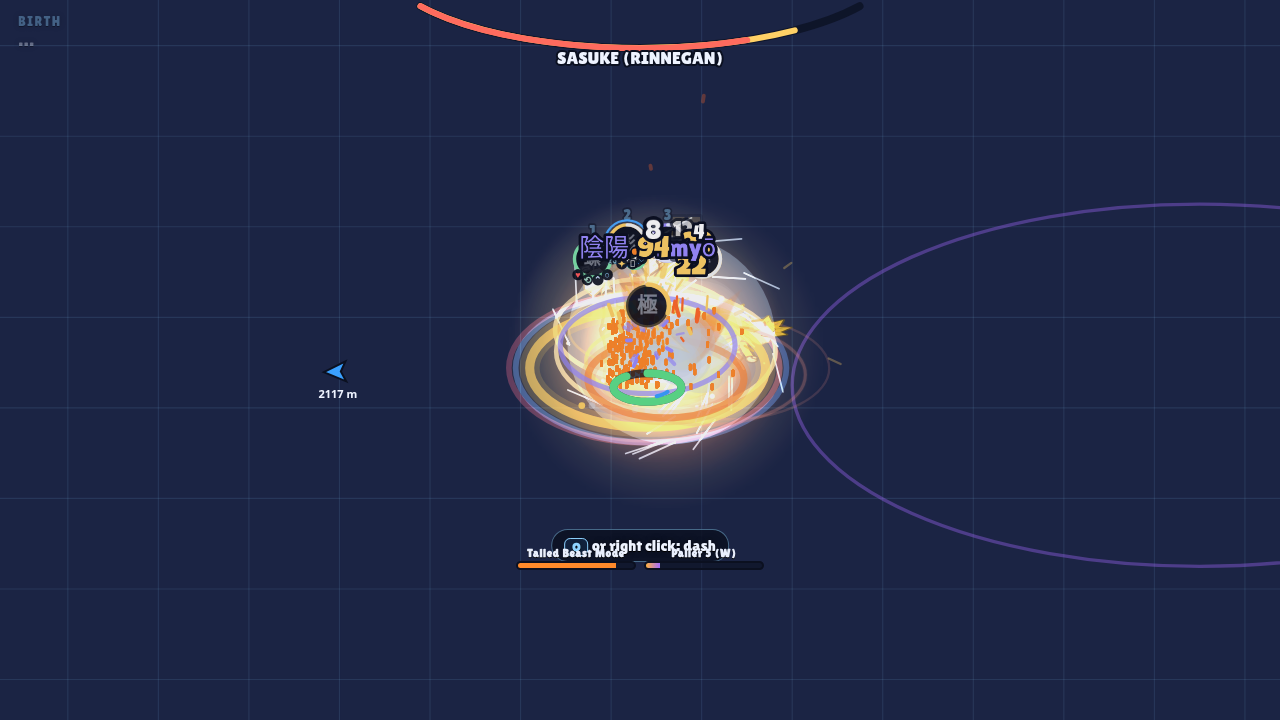
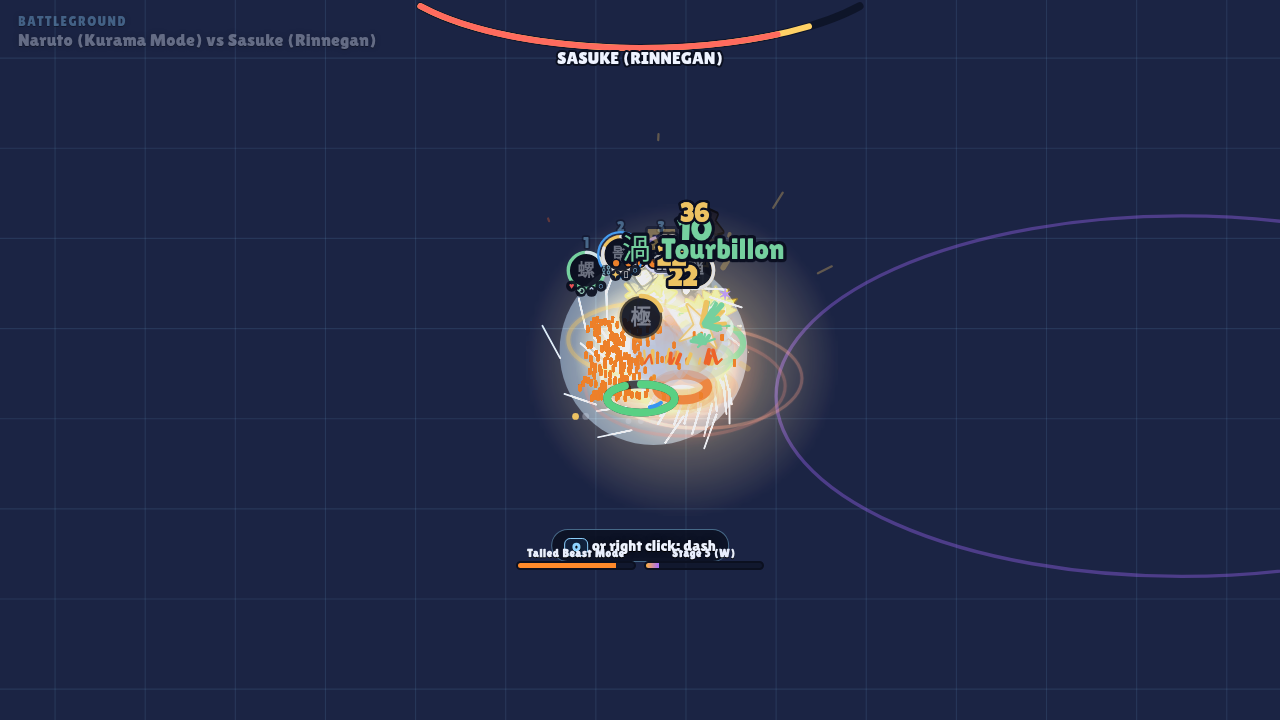
v0.10.36 Battleground: canon kits for Pain and Kawaki, red Susanoo for Itachi

diff --git a/index.html b/index.html
@@ -104,7 +104,7 @@ button.b.p{background:var(--gold);color:var(--ink)}button.b.p2{background:var(--
 <script>
 'use strict';
 /* ============ Noyau : réglages, sauvegarde, entrées, audio ============ */
-const VERSION = '0.10.35';
+const VERSION = '0.10.36';
 const K10 = Math.sqrt(10); // v0.9.7 : échelle des cartes extérieures (surface ×10)
 const $ = (s) => document.querySelector(s);
 const TAU = Math.PI * 2, clamp = (v, a, b) => (v < a ? a : v > b ? b : v), lerp = (a, b, t) => a + (b - a) * t;
@@ -5457,7 +5457,9 @@ let FT10 = null, FB10 = null;
 "Bansho Ten’in": "Banshō Ten'in",
 "Tiges en éventail": "Rod Fan",
 "Palier {} ({})": "Stage {} ({})",
-"Palier max": "Max stage"
+"Palier max": "Max stage",
+"Tiges de chakra": "Chakra Rods",
+"Bras-lame du Kāma": "Kāma Blade Arm"
 }
 };
   const L = window.LANG10 = { DATA, miss: new Set(), get lang() { return (Save.set && Save.set.lang) || 'en'; }, set lang(v) { Save.set.lang = v; try { Save.saveSet && Save.saveSet(); } catch (e) {} },
@@ -5483,21 +5485,34 @@ let FT10 = null, FB10 = null;
   // coups de l'adversaire (l'IA ne peut pas utiliser castSkill : il touche World.foes) — chaque coup canon est rejoué côté ennemi
   // t : proj | fan | beam | zone | dash ; d : dégâts ; cd : recharge
   const FIG = {
-    sasuke: { n: 'Sasuke (Rinnegan)', look: { hs: 'sasuke', hair: '#1a1a2a', top: '#3a3a4a', bot: '#2a2a36', cloak: '#3a3a4a', skin: '#f0d0b0', eye: '#7a4ad8' }, hp: 1, sk: ['chidori', 'amaterasu', 'm8_sharingan_2_0', 'm8_sharingan_6_0'], ult: 'm8u_sharingan_8', mode: ['sharingan', 7],
+    sasuke: { n: 'Sasuke (Rinnegan)', look: { hs: 'sasuke', hair: '#1a1a2a', top: '#3a3a4a', bot: '#2a2a36', cloak: '#3a3a4a', skin: '#f0d0b0', eye: '#7a4ad8' }, hp: 1, sk: ['chidori', 'amaterasu', 'm8_sharingan_2_0', 'm8_sharingan_6_0'], ult: 'm8u_sharingan_8', mode: ['sharingan', 7], sus: 'purple',
       ai: [['Chidori', '千', 'bolt', 'dash', 26, 4], ['Amaterasu', '天', 'fire', 'zone', 30, 7], ['Chidori Eisō', '槍', 'bolt', 'beam', 22, 5], ['Flèche de Susanoo', '矢', 'yin', 'proj', 28, 6]], aiU: ['Flèche de l’Indra', 'bolt', 70] },
-    itachi: { n: 'Itachi (Edo Tensei)', look: { hs: 'pony', hair: '#1a1a22', top: '#22222e', bot: '#22222e', cloak: '#1a1a26', org: 1, skin: '#d8ccc0', eye: '#d0283a', scar: 1 }, hp: 1, sk: ['gokakyu', 'm8_sharingan_3_1', 'amaterasu', 'm8_sharingan_6_1'], ult: 'm8u_sharingan_7', mode: ['sharingan', 7],
+    itachi: { n: 'Itachi (Edo Tensei)', look: { hs: 'pony', hair: '#1a1a22', top: '#22222e', bot: '#22222e', cloak: '#1a1a26', org: 1, skin: '#d8ccc0', eye: '#d0283a', scar: 1 }, hp: 1, sk: ['gokakyu', 'm8_sharingan_3_1', 'amaterasu', 'm8_sharingan_6_1'], ult: 'm8u_sharingan_7', mode: ['sharingan', 7], sus: 'red',
       ai: [['Katon : Gōkakyū', '火', 'fire', 'proj', 24, 4], ['Tsukuyomi', '月', 'yin', 'zone', 22, 8], ['Amaterasu', '天', 'fire', 'zone', 30, 7], ['Shuriken guidés', '手', 'yang', 'fan', 8, 3]], aiU: ['Épée de Totsuka', 'yin', 65] },
     naruto: { n: 'Naruto (Mode Kurama)', look: { hs: 'naruto', hair: '#ffd23a', top: '#ffb13d', bot: '#2a2a36', skin: '#f0c49c', marks: 1 }, hp: 1.1, sk: ['rasen', 'bunshin', 'm8_manteau_2_0', 'm8_manteau_1_0'], ult: 'set_rasenshuriken', mode: ['manteau', 4],
       ai: [['Rasengan', '螺', 'wind', 'dash', 26, 4], ['Mini Bijūdama', '玉', 'yin', 'proj', 30, 6], ['Kage Bunshin', '影', 'yang', 'fan', 9, 5], ['Bras de chakra', '腕', 'yang', 'beam', 20, 5]], aiU: ['Fūton : Rasenshuriken', 'wind', 70] },
-    naruto_s: { n: 'Naruto (Mode Ermite)', look: { hs: 'naruto', hair: '#ffd23a', top: '#ff8a2a', bot: '#2a2a36', cloak: '#c0402a', skin: '#f0c49c', marks: 1 }, hp: 0.95, sk: ['m8_ermite_0_1', 'm8_ermite_0_0', 'bunshin', 'm8_ermite_2_0'], ult: 'm8u_ermite_0', mode: ['ermite', 2],
+    naruto_s: { n: 'Naruto (Mode Ermite)', look: { hs: 'naruto', hair: '#ffd23a', top: '#ff8a2a', bot: '#2a2a36', cloak: '#c0402a', skin: '#f0c49c', marks: 1 }, hp: 0.8, sk: ['m8_ermite_0_1', 'm8_ermite_0_0', 'bunshin', 'm8_ermite_2_0'], ult: 'm8u_ermite_0', mode: ['ermite', 2],
       ai: [['Senpō : Rasengan', '螺', 'wind', 'dash', 22, 4.5], ['Kawazu Kumite', '蛙', 'yang', 'dash', 15, 3.5], ['Senpō : Rasenshuriken', '手', 'wind', 'proj', 26, 8], ['Kage Bunshin', '影', 'yang', 'fan', 7, 5]], aiU: ['Senpō : Chōōdama Rasengan', 'wind', 55] },
-    pain: { n: 'Pain (Tendō)', look: { hs: 'spiky', hair: '#e8752a', top: '#1a1a26', bot: '#1a1a26', cloak: '#1a1a26', org: 1, skin: '#f0d8c0', eye: '#b08ad8' }, hp: 0.9, sk: ['shinra', 'm8_karma_0_2', 'm8_karma_2_0', 'shuriken8'], ult: 'set_chibaku', mode: null, pw: 2.4, me: 1.45,
+    pain: { n: 'Pain (Tendō)', look: { hs: 'spiky', hair: '#e8752a', top: '#1a1a26', bot: '#1a1a26', cloak: '#1a1a26', org: 1, skin: '#f0d8c0', eye: '#b08ad8' }, hp: 0.9, sk: ['shinra', 'bansho10', 'rods10', 'shuriken8'], ult: 'set_chibaku', mode: null, me: 1.2,
       ai: [['Shinra Tensei', '神', 'yang', 'zone', 24, 6], ['Tige noire', '杭', 'yin', 'proj', 15, 3.5], ['Bansho Ten’in', '引', 'yang', 'dash', 16, 6], ['Tige noire', '杭', 'yin', 'fan', 10, 4]], aiU: ['Chibaku Tensei', 'earth', 70] },
-    boruto: { n: 'Boruto (Kāma)', look: { hs: 'boruto', hair: '#f0d060', top: '#2a2a3a', bot: '#2a2a3a', skin: '#f0c49c', karma: 1 }, hp: 0.95, sk: ['rasen', 'm8_jogan_0_1', 'm8_karma_0_0', 'bunshin'], ult: 'uzuhiko', mode: ['karma', 2],
+    boruto: { n: 'Boruto (Kāma)', look: { hs: 'boruto', hair: '#f0d060', top: '#2a2a3a', bot: '#2a2a3a', skin: '#f0c49c', karma: 1 }, hp: 0.8, sk: ['rasen', 'm8_jogan_0_1', 'm8_karma_0_0', 'bunshin'], ult: 'uzuhiko', mode: ['karma', 2],
       ai: [['Rasengan', '螺', 'wind', 'dash', 24, 4], ['Rasengan invisible', '螺', 'wind', 'proj', 26, 5], ['Kage Bunshin', '影', 'yang', 'fan', 9, 5], ['Coup de Kāma', '撃', 'yin', 'dash', 22, 4]], aiU: ['Rasengan Uzuhiko', 'wind', 65] },
-    kawaki: { n: 'Kawaki (Kāma)', look: { hs: 'kawaki', hair: '#1a1a22', top: '#3a3a44', bot: '#2a2a30', skin: '#e8c8a8', karma: 1 }, hp: 1.1, sk: ['m8_karma_0_2', 'm8_karma_1_1', 'm8_karma_0_1', 'm8_karma_0_0'], ult: 'm8u_karma_2', mode: ['karma', 3], pw: 1.9, me: 1.35,
+    kawaki: { n: 'Kawaki (Kāma)', look: { hs: 'kawaki', hair: '#1a1a22', top: '#3a3a44', bot: '#2a2a30', skin: '#e8c8a8', karma: 1 }, hp: 0.95, sk: ['kawarm10', 'm8_karma_1_1', 'rods10', 'm8_karma_0_0'], ult: 'm8u_karma_2', mode: ['karma', 3], me: 1.1,
       ai: [['Tige noire', '杭', 'yin', 'proj', 20, 3], ['Sukunahikona', '小', 'yin', 'beam', 24, 6], ['Coup de Kāma', '撃', 'yin', 'dash', 22, 4], ['Tiges en éventail', '杭', 'yin', 'fan', 10, 4]], aiU: ['Daikokuten', 'yin', 70] } };
   const MU = [['sasuke', 'itachi', 'Les frères Uchiha'], ['naruto', 'sasuke', 'Vallée de la Fin'], ['naruto_s', 'pain', 'Invasion de Pain'], ['boruto', 'kawaki', 'Réceptacles du Kāma']];
+  // techniques canon ajoutées pour les kits joueur : Banshō Ten'in (Pain), Tiges de chakra (Pain/Kawaki), Bras-lame du Kāma (Kawaki)
+  Object.assign(SK, { bansho10: { n: 'Bansho Ten’in', el: 'yang', k: '引', cd: 6, ch: 18, sign: 'tora' }, rods10: { n: 'Tiges de chakra', el: 'yin', k: '杭', cd: 3.5, ch: 14, sign: 'mi' }, kawarm10: { n: 'Bras-lame du Kāma', el: 'yin', k: '刃', cd: 2.5, ch: 16, sign: 'ne' } });
+  const CANON = { shinra: 3, bansho10: 1.5, rods10: 1.5, m8_karma_1_1: 2, kawarm10: 1.6 }; // Shinra Tensei rase Konoha ; Sukunahikona projette des objets agrandis
+  const fs0 = fireSkill; fireSkill = function (u, S, id) { const P = typeof pw === 'function' ? pw(u) : 1, a = u.aimA || 0;
+    if (id === 'bansho10') { const f = nearestFoe(u, 520); FX.glow(u.x + Math.cos(a) * 40, u.y - 40, '#e8e0ff', 70, 0.4); if (!f) return; const fx = f.x, fy = f.y; f.st = f.st || {}; f.st.stun = 0.7; FX.custom({ x: 0, y: 0, life: 0.25, draw: (g, p, q) => { g.save(); g.strokeStyle = 'rgba(220,210,255,.8)'; g.lineWidth = 3; g.beginPath(); g.moveTo(u.x, u.y - 40); g.lineTo(f.x, f.y - 34); g.stroke(); g.restore(); } });
+      const tx = u.x + Math.sign(f.x - u.x || 1) * 60; Game.later(0.05, () => { f.x = lerp(fx, tx, 0.85); f.y = lerp(fy, u.y, 0.85); hurt(f, 22 * P, u, { el: 'yang', k: 0.4 }); Cam.shake(0.12); }); return; }
+    if (id === 'rods10') { for (const s of [-0.12, 0, 0.12]) Proj.push({ x: u.x, y: u.y - 36, vx: Math.cos(a + s) * 820, vy: Math.sin(a + s) * 820, life: 0.9, dmg: 18 * P, el: 'yin', team: 0, r: 12, src: u, kind: 'bolt', pierce: 1, hit: new Set() }); return; }
+    if (id === 'kawarm10') { u.vx += Math.cos(a) * 700; u.vy += Math.sin(a) * 700; Game.later(0.1, () => { const x = u.x + Math.cos(a) * 60, y = u.y + Math.sin(a) * 30; FX.glow(x, y - 30, '#2a2a3a', 80, 0.3); for (const f of World.foes()) if (!f.passive && Math.hypot(f.x - x, f.y - y) < 150) hurt(f, 34 * P, u, { el: 'yin', k: 1.4 }); }); return; }
+    if (u && u.isHero) { B.cast10 = id; B.castT = Game.t; }
+    // canon : Shinra Tensei repousse tout (projectiles annulés, invulnérable un instant) ; l'Absorption du Kāma avale les ninjutsu et rend du chakra/PV
+    if (u && u.isHero && (id === 'shinra' || id === 'm8_karma_0_0')) { const R = id === 'shinra' ? 340 : 260; let n = 0; for (const p of Proj) if (p.team === 1 && Math.hypot(p.x - u.x, p.y - u.y) < R) { p.life = 0; n++; } u.iframe = Math.max(u.iframe || 0, id === 'shinra' ? 1.1 : 0.7);
+      if (id === 'm8_karma_0_0') { u.hp = Math.min(u.maxHp, u.hp + u.maxHp * (0.03 + 0.03 * n)); u.ch = Math.min(u.maxCh, u.ch + 10 * n); } else for (const f of World.foes()) if (Math.hypot(f.x - u.x, f.y - u.y) < R) { const k = Math.atan2(f.y - u.y, f.x - u.x); f.vx += Math.cos(k) * 900; f.vy += Math.sin(k) * 900; } }
+    return fs0.apply(this, arguments); };
   const B = window.BG10 = { on: false, FIG, MU, foe: null, me: null, t: 0, ultT: 0 };
   // ----- menu
   const css = document.createElement('style'); css.textContent = `#bg10{position:fixed;inset:0;z-index:40;display:none;align-items:center;justify-content:center;background:rgba(6,8,18,.92)}#bg10 .w{width:min(760px,94vw);max-height:92vh;overflow:auto;background:#0e1630;border:2px solid #3a4a7a;border-radius:18px;padding:18px;color:#e8eefc}
@@ -5514,13 +5529,13 @@ let FT10 = null, FB10 = null;
     $('#title').style.display = 'none'; Game.startVoie({ name: mine.n, clan: 'uchiha', look: makeLook(7, mine.look), creative: 1, el: 'fire', sk: mine.sk.slice() });
     setTimeout(() => { CREA8.open(); setTimeout(setup, 300); }, 750); };
   const setup = () => { const h = Game.hero, R = ZONE8.ROOMS.creatif, mine = B.me, his = B.his; h.look = makeLook(7, mine.look); h.n = mine.n; Game.skills = mine.sk.slice(); Game.ultId = mine.ult; Game.ultV = 0; B.fight = true; Voie.step = 'free'; Voie.mis = null; Talk.q = []; Talk.cb = null; Talk.opts = null; Talk.ocb = null; Talk.showing = false; if (Talk.on) Talk.next(); Game.cine = false; if (window.Scene && Scene.on && Scene.skip) Scene.skip(); h.maxHp = Math.round(h.maxHp0 = h.maxHp0 || h.maxHp) * 2.6 * mine.hp * (mine.me || 1) | 0; h.hp = h.maxHp; h.ch = h.maxCh; h.cd = {}; World.foes_ = []; Proj.length = 0;
-    h.x = R.x + 900; h.y = R.y + 1000; h.face = 1; if (mine.mode) { MODE08.enter(h, MODE08.F[mine.mode[0]].key || 'Z'); if (h.md) { h.md.fam = mine.mode[0]; h.md.st = 0; MODE08.stage(h, mine.mode[1]); h.md.ult0 = null; } Game.skills = mine.sk.slice(); Game.ultId = mine.ult; Game.page = 0; }
+    h.x = R.x + 900; h.y = R.y + 1000; h.face = 1; if (Voie.me) Voie.me.susC = mine.sus || 'purple'; if (mine.mode) { MODE08.enter(h, MODE08.F[mine.mode[0]].key || 'Z'); if (h.md) { h.md.fam = mine.mode[0]; h.md.st = 0; MODE08.stage(h, mine.mode[1]); h.md.ult0 = null; } Game.skills = mine.sk.slice(); Game.ultId = mine.ult; Game.page = 0; }
     if (!FOE.bg10) FOE.bg10 = Object.assign({}, FOE.rival, { n: 'Duelliste', dmg: 7, xp: 0 }); const f = spawnFoe('bg10', R.x + 1500, R.y + 1000, { look: makeLook(11, his.look), n: his.n, tag: 'bg' }); f.maxHp = f.hp = Math.round(850 * his.hp * [0.75, 1, 1.25][Save.set.diff || 0]); f.aggro = true; f.boss = 1; f.cdS = 99; f.bg = his; f.bgT = 2; f.bgU = 0; f.face = -1; B.foe = f; B.t = 0;
     UI.toast(T(MU[B.i][2]) + ' — ' + T('Combat !'), 1); };
   // ----- IA : coups canon
   const shoot = (f, a, sp, d, el, r, kind) => Proj.push({ x: f.x, y: f.y - 34, vx: Math.cos(a) * sp, vy: Math.sin(a) * sp, life: 1.4, dmg: d, el, team: 1, r, src: f, kind: kind || (el === 'water' ? 'water' : el === 'bolt' ? 'bolt' : 'orb'), hit: new Set() });
   const call = (f, n, el) => { FX.text(f.x, f.y - 120, T(n), elc(el), 22); FX.glow(f.x, f.y - 40, elc(el), 60, 0.4); f.sign = { k: 'tora', t: 0 }; };
-  const move = (f, M, h) => { const [n, k, el, t, d, cd] = M, a = Math.atan2(h.y - f.y, h.x - f.x), K = [0.45, 0.6, 0.75][Save.set.diff || 0]; call(f, n, el); f.bgT = cd * (0.8 + Math.random() * 0.5);
+  const move = (f, M, h) => { const [n, k, el, t, d, cd] = M, a = Math.atan2(h.y - f.y, h.x - f.x), K = [0.38, 0.5, 0.65][Save.set.diff || 0]; call(f, n, el); f.bgT = cd * (0.8 + Math.random() * 0.5);
     if (t === 'proj') Game.later(0.35, () => shoot(f, Math.atan2(h.y - f.y, h.x - f.x), 600, d * K, el, 20));
     else if (t === 'fan') Game.later(0.3, () => { for (let i = -2; i <= 2; i++) shoot(f, a + i * 0.16, 560, d * K, el, 12); });
     else if (t === 'beam') Game.later(0.45, () => { const b = Math.atan2(h.y - f.y, h.x - f.x); for (let i = 0; i < 6; i++) Game.later(i * 0.04, () => shoot(f, b, 900, d * K / 3, el, 16, 'bolt')); });
@@ -5534,7 +5549,7 @@ let FT10 = null, FB10 = null;
   for (const k of ['say', 'choose']) { const o = Talk[k].bind(Talk); Talk[k] = function () { if (B.on && B.fight) return; return o.apply(this, arguments); }; }
   const vt = Voie.target.bind(Voie); Voie.target = function () { return B.on ? null : vt.apply(this, arguments); };
   const ob0 = Voie.obj.bind(Voie); Voie.obj = function () { return B.on ? ['Battleground', T(B.me ? B.me.n : '') + ' vs ' + T(B.his ? B.his.n : '')] : ob0.apply(this, arguments); };
-  const hu0 = hurt; hurt = function (t, d, src, o) { if (B.on && src && src === Game.hero && B.me && B.me.pw) d *= B.me.pw; return hu0.call(this, t, d, src, o); };
+  const hu0 = hurt; hurt = function (t, d, src, o) { if (B.on && src && src === Game.hero && B.me && B.me.pw) d *= B.me.pw; if (B.on && src === Game.hero && B.cast10 && CANON[B.cast10] && Game.t - B.castT < 1.5) d *= CANON[B.cast10]; return hu0.call(this, t, d, src, o); };
   const hd = Game.heroDown.bind(Game); Game.heroDown = function () { if (B.on) { end(false); return; } return hd(); };
   const sl = Game.skillLock.bind(Game); Game.skillLock = function (id) { return B.on ? null : sl(id); };
   const ul = Game.ultLock.bind(Game); Game.ultLock = function () { return B.on ? (this.ultId ? null : 'Aucun ultime') : ul(); };

diff --git a/src/8zv_bg10.js b/src/8zv_bg10.js
@@ -3,21 +3,34 @@
   // coups de l'adversaire (l'IA ne peut pas utiliser castSkill : il touche World.foes) — chaque coup canon est rejoué côté ennemi
   // t : proj | fan | beam | zone | dash ; d : dégâts ; cd : recharge
   const FIG = {
-    sasuke: { n: 'Sasuke (Rinnegan)', look: { hs: 'sasuke', hair: '#1a1a2a', top: '#3a3a4a', bot: '#2a2a36', cloak: '#3a3a4a', skin: '#f0d0b0', eye: '#7a4ad8' }, hp: 1, sk: ['chidori', 'amaterasu', 'm8_sharingan_2_0', 'm8_sharingan_6_0'], ult: 'm8u_sharingan_8', mode: ['sharingan', 7],
+    sasuke: { n: 'Sasuke (Rinnegan)', look: { hs: 'sasuke', hair: '#1a1a2a', top: '#3a3a4a', bot: '#2a2a36', cloak: '#3a3a4a', skin: '#f0d0b0', eye: '#7a4ad8' }, hp: 1, sk: ['chidori', 'amaterasu', 'm8_sharingan_2_0', 'm8_sharingan_6_0'], ult: 'm8u_sharingan_8', mode: ['sharingan', 7], sus: 'purple',
       ai: [['Chidori', '千', 'bolt', 'dash', 26, 4], ['Amaterasu', '天', 'fire', 'zone', 30, 7], ['Chidori Eisō', '槍', 'bolt', 'beam', 22, 5], ['Flèche de Susanoo', '矢', 'yin', 'proj', 28, 6]], aiU: ['Flèche de l’Indra', 'bolt', 70] },
-    itachi: { n: 'Itachi (Edo Tensei)', look: { hs: 'pony', hair: '#1a1a22', top: '#22222e', bot: '#22222e', cloak: '#1a1a26', org: 1, skin: '#d8ccc0', eye: '#d0283a', scar: 1 }, hp: 1, sk: ['gokakyu', 'm8_sharingan_3_1', 'amaterasu', 'm8_sharingan_6_1'], ult: 'm8u_sharingan_7', mode: ['sharingan', 7],
+    itachi: { n: 'Itachi (Edo Tensei)', look: { hs: 'pony', hair: '#1a1a22', top: '#22222e', bot: '#22222e', cloak: '#1a1a26', org: 1, skin: '#d8ccc0', eye: '#d0283a', scar: 1 }, hp: 1, sk: ['gokakyu', 'm8_sharingan_3_1', 'amaterasu', 'm8_sharingan_6_1'], ult: 'm8u_sharingan_7', mode: ['sharingan', 7], sus: 'red',
       ai: [['Katon : Gōkakyū', '火', 'fire', 'proj', 24, 4], ['Tsukuyomi', '月', 'yin', 'zone', 22, 8], ['Amaterasu', '天', 'fire', 'zone', 30, 7], ['Shuriken guidés', '手', 'yang', 'fan', 8, 3]], aiU: ['Épée de Totsuka', 'yin', 65] },
     naruto: { n: 'Naruto (Mode Kurama)', look: { hs: 'naruto', hair: '#ffd23a', top: '#ffb13d', bot: '#2a2a36', skin: '#f0c49c', marks: 1 }, hp: 1.1, sk: ['rasen', 'bunshin', 'm8_manteau_2_0', 'm8_manteau_1_0'], ult: 'set_rasenshuriken', mode: ['manteau', 4],
       ai: [['Rasengan', '螺', 'wind', 'dash', 26, 4], ['Mini Bijūdama', '玉', 'yin', 'proj', 30, 6], ['Kage Bunshin', '影', 'yang', 'fan', 9, 5], ['Bras de chakra', '腕', 'yang', 'beam', 20, 5]], aiU: ['Fūton : Rasenshuriken', 'wind', 70] },
-    naruto_s: { n: 'Naruto (Mode Ermite)', look: { hs: 'naruto', hair: '#ffd23a', top: '#ff8a2a', bot: '#2a2a36', cloak: '#c0402a', skin: '#f0c49c', marks: 1 }, hp: 0.95, sk: ['m8_ermite_0_1', 'm8_ermite_0_0', 'bunshin', 'm8_ermite_2_0'], ult: 'm8u_ermite_0', mode: ['ermite', 2],
+    naruto_s: { n: 'Naruto (Mode Ermite)', look: { hs: 'naruto', hair: '#ffd23a', top: '#ff8a2a', bot: '#2a2a36', cloak: '#c0402a', skin: '#f0c49c', marks: 1 }, hp: 0.8, sk: ['m8_ermite_0_1', 'm8_ermite_0_0', 'bunshin', 'm8_ermite_2_0'], ult: 'm8u_ermite_0', mode: ['ermite', 2],
       ai: [['Senpō : Rasengan', '螺', 'wind', 'dash', 22, 4.5], ['Kawazu Kumite', '蛙', 'yang', 'dash', 15, 3.5], ['Senpō : Rasenshuriken', '手', 'wind', 'proj', 26, 8], ['Kage Bunshin', '影', 'yang', 'fan', 7, 5]], aiU: ['Senpō : Chōōdama Rasengan', 'wind', 55] },
-    pain: { n: 'Pain (Tendō)', look: { hs: 'spiky', hair: '#e8752a', top: '#1a1a26', bot: '#1a1a26', cloak: '#1a1a26', org: 1, skin: '#f0d8c0', eye: '#b08ad8' }, hp: 0.9, sk: ['shinra', 'm8_karma_0_2', 'm8_karma_2_0', 'shuriken8'], ult: 'set_chibaku', mode: null, pw: 2.4, me: 1.45,
+    pain: { n: 'Pain (Tendō)', look: { hs: 'spiky', hair: '#e8752a', top: '#1a1a26', bot: '#1a1a26', cloak: '#1a1a26', org: 1, skin: '#f0d8c0', eye: '#b08ad8' }, hp: 0.9, sk: ['shinra', 'bansho10', 'rods10', 'shuriken8'], ult: 'set_chibaku', mode: null, me: 1.2,
       ai: [['Shinra Tensei', '神', 'yang', 'zone', 24, 6], ['Tige noire', '杭', 'yin', 'proj', 15, 3.5], ['Bansho Ten’in', '引', 'yang', 'dash', 16, 6], ['Tige noire', '杭', 'yin', 'fan', 10, 4]], aiU: ['Chibaku Tensei', 'earth', 70] },
-    boruto: { n: 'Boruto (Kāma)', look: { hs: 'boruto', hair: '#f0d060', top: '#2a2a3a', bot: '#2a2a3a', skin: '#f0c49c', karma: 1 }, hp: 0.95, sk: ['rasen', 'm8_jogan_0_1', 'm8_karma_0_0', 'bunshin'], ult: 'uzuhiko', mode: ['karma', 2],
+    boruto: { n: 'Boruto (Kāma)', look: { hs: 'boruto', hair: '#f0d060', top: '#2a2a3a', bot: '#2a2a3a', skin: '#f0c49c', karma: 1 }, hp: 0.8, sk: ['rasen', 'm8_jogan_0_1', 'm8_karma_0_0', 'bunshin'], ult: 'uzuhiko', mode: ['karma', 2],
       ai: [['Rasengan', '螺', 'wind', 'dash', 24, 4], ['Rasengan invisible', '螺', 'wind', 'proj', 26, 5], ['Kage Bunshin', '影', 'yang', 'fan', 9, 5], ['Coup de Kāma', '撃', 'yin', 'dash', 22, 4]], aiU: ['Rasengan Uzuhiko', 'wind', 65] },
-    kawaki: { n: 'Kawaki (Kāma)', look: { hs: 'kawaki', hair: '#1a1a22', top: '#3a3a44', bot: '#2a2a30', skin: '#e8c8a8', karma: 1 }, hp: 1.1, sk: ['m8_karma_0_2', 'm8_karma_1_1', 'm8_karma_0_1', 'm8_karma_0_0'], ult: 'm8u_karma_2', mode: ['karma', 3], pw: 1.9, me: 1.35,
+    kawaki: { n: 'Kawaki (Kāma)', look: { hs: 'kawaki', hair: '#1a1a22', top: '#3a3a44', bot: '#2a2a30', skin: '#e8c8a8', karma: 1 }, hp: 0.95, sk: ['kawarm10', 'm8_karma_1_1', 'rods10', 'm8_karma_0_0'], ult: 'm8u_karma_2', mode: ['karma', 3], me: 1.1,
       ai: [['Tige noire', '杭', 'yin', 'proj', 20, 3], ['Sukunahikona', '小', 'yin', 'beam', 24, 6], ['Coup de Kāma', '撃', 'yin', 'dash', 22, 4], ['Tiges en éventail', '杭', 'yin', 'fan', 10, 4]], aiU: ['Daikokuten', 'yin', 70] } };
   const MU = [['sasuke', 'itachi', 'Les frères Uchiha'], ['naruto', 'sasuke', 'Vallée de la Fin'], ['naruto_s', 'pain', 'Invasion de Pain'], ['boruto', 'kawaki', 'Réceptacles du Kāma']];
+  // techniques canon ajoutées pour les kits joueur : Banshō Ten'in (Pain), Tiges de chakra (Pain/Kawaki), Bras-lame du Kāma (Kawaki)
+  Object.assign(SK, { bansho10: { n: 'Bansho Ten’in', el: 'yang', k: '引', cd: 6, ch: 18, sign: 'tora' }, rods10: { n: 'Tiges de chakra', el: 'yin', k: '杭', cd: 3.5, ch: 14, sign: 'mi' }, kawarm10: { n: 'Bras-lame du Kāma', el: 'yin', k: '刃', cd: 2.5, ch: 16, sign: 'ne' } });
+  const CANON = { shinra: 3, bansho10: 1.5, rods10: 1.5, m8_karma_1_1: 2, kawarm10: 1.6 }; // Shinra Tensei rase Konoha ; Sukunahikona projette des objets agrandis
+  const fs0 = fireSkill; fireSkill = function (u, S, id) { const P = typeof pw === 'function' ? pw(u) : 1, a = u.aimA || 0;
+    if (id === 'bansho10') { const f = nearestFoe(u, 520); FX.glow(u.x + Math.cos(a) * 40, u.y - 40, '#e8e0ff', 70, 0.4); if (!f) return; const fx = f.x, fy = f.y; f.st = f.st || {}; f.st.stun = 0.7; FX.custom({ x: 0, y: 0, life: 0.25, draw: (g, p, q) => { g.save(); g.strokeStyle = 'rgba(220,210,255,.8)'; g.lineWidth = 3; g.beginPath(); g.moveTo(u.x, u.y - 40); g.lineTo(f.x, f.y - 34); g.stroke(); g.restore(); } });
+      const tx = u.x + Math.sign(f.x - u.x || 1) * 60; Game.later(0.05, () => { f.x = lerp(fx, tx, 0.85); f.y = lerp(fy, u.y, 0.85); hurt(f, 22 * P, u, { el: 'yang', k: 0.4 }); Cam.shake(0.12); }); return; }
+    if (id === 'rods10') { for (const s of [-0.12, 0, 0.12]) Proj.push({ x: u.x, y: u.y - 36, vx: Math.cos(a + s) * 820, vy: Math.sin(a + s) * 820, life: 0.9, dmg: 18 * P, el: 'yin', team: 0, r: 12, src: u, kind: 'bolt', pierce: 1, hit: new Set() }); return; }
+    if (id === 'kawarm10') { u.vx += Math.cos(a) * 700; u.vy += Math.sin(a) * 700; Game.later(0.1, () => { const x = u.x + Math.cos(a) * 60, y = u.y + Math.sin(a) * 30; FX.glow(x, y - 30, '#2a2a3a', 80, 0.3); for (const f of World.foes()) if (!f.passive && Math.hypot(f.x - x, f.y - y) < 150) hurt(f, 34 * P, u, { el: 'yin', k: 1.4 }); }); return; }
+    if (u && u.isHero) { B.cast10 = id; B.castT = Game.t; }
+    // canon : Shinra Tensei repousse tout (projectiles annulés, invulnérable un instant) ; l'Absorption du Kāma avale les ninjutsu et rend du chakra/PV
+    if (u && u.isHero && (id === 'shinra' || id === 'm8_karma_0_0')) { const R = id === 'shinra' ? 340 : 260; let n = 0; for (const p of Proj) if (p.team === 1 && Math.hypot(p.x - u.x, p.y - u.y) < R) { p.life = 0; n++; } u.iframe = Math.max(u.iframe || 0, id === 'shinra' ? 1.1 : 0.7);
+      if (id === 'm8_karma_0_0') { u.hp = Math.min(u.maxHp, u.hp + u.maxHp * (0.03 + 0.03 * n)); u.ch = Math.min(u.maxCh, u.ch + 10 * n); } else for (const f of World.foes()) if (Math.hypot(f.x - u.x, f.y - u.y) < R) { const k = Math.atan2(f.y - u.y, f.x - u.x); f.vx += Math.cos(k) * 900; f.vy += Math.sin(k) * 900; } }
+    return fs0.apply(this, arguments); };
   const B = window.BG10 = { on: false, FIG, MU, foe: null, me: null, t: 0, ultT: 0 };
   // ----- menu
   const css = document.createElement('style'); css.textContent = `#bg10{position:fixed;inset:0;z-index:40;display:none;align-items:center;justify-content:center;background:rgba(6,8,18,.92)}#bg10 .w{width:min(760px,94vw);max-height:92vh;overflow:auto;background:#0e1630;border:2px solid #3a4a7a;border-radius:18px;padding:18px;color:#e8eefc}
@@ -34,13 +47,13 @@
     $('#title').style.display = 'none'; Game.startVoie({ name: mine.n, clan: 'uchiha', look: makeLook(7, mine.look), creative: 1, el: 'fire', sk: mine.sk.slice() });
     setTimeout(() => { CREA8.open(); setTimeout(setup, 300); }, 750); };
   const setup = () => { const h = Game.hero, R = ZONE8.ROOMS.creatif, mine = B.me, his = B.his; h.look = makeLook(7, mine.look); h.n = mine.n; Game.skills = mine.sk.slice(); Game.ultId = mine.ult; Game.ultV = 0; B.fight = true; Voie.step = 'free'; Voie.mis = null; Talk.q = []; Talk.cb = null; Talk.opts = null; Talk.ocb = null; Talk.showing = false; if (Talk.on) Talk.next(); Game.cine = false; if (window.Scene && Scene.on && Scene.skip) Scene.skip(); h.maxHp = Math.round(h.maxHp0 = h.maxHp0 || h.maxHp) * 2.6 * mine.hp * (mine.me || 1) | 0; h.hp = h.maxHp; h.ch = h.maxCh; h.cd = {}; World.foes_ = []; Proj.length = 0;
-    h.x = R.x + 900; h.y = R.y + 1000; h.face = 1; if (mine.mode) { MODE08.enter(h, MODE08.F[mine.mode[0]].key || 'Z'); if (h.md) { h.md.fam = mine.mode[0]; h.md.st = 0; MODE08.stage(h, mine.mode[1]); h.md.ult0 = null; } Game.skills = mine.sk.slice(); Game.ultId = mine.ult; Game.page = 0; }
+    h.x = R.x + 900; h.y = R.y + 1000; h.face = 1; if (Voie.me) Voie.me.susC = mine.sus || 'purple'; if (mine.mode) { MODE08.enter(h, MODE08.F[mine.mode[0]].key || 'Z'); if (h.md) { h.md.fam = mine.mode[0]; h.md.st = 0; MODE08.stage(h, mine.mode[1]); h.md.ult0 = null; } Game.skills = mine.sk.slice(); Game.ultId = mine.ult; Game.page = 0; }
     if (!FOE.bg10) FOE.bg10 = Object.assign({}, FOE.rival, { n: 'Duelliste', dmg: 7, xp: 0 }); const f = spawnFoe('bg10', R.x + 1500, R.y + 1000, { look: makeLook(11, his.look), n: his.n, tag: 'bg' }); f.maxHp = f.hp = Math.round(850 * his.hp * [0.75, 1, 1.25][Save.set.diff || 0]); f.aggro = true; f.boss = 1; f.cdS = 99; f.bg = his; f.bgT = 2; f.bgU = 0; f.face = -1; B.foe = f; B.t = 0;
     UI.toast(T(MU[B.i][2]) + ' — ' + T('Combat !'), 1); };
   // ----- IA : coups canon
   const shoot = (f, a, sp, d, el, r, kind) => Proj.push({ x: f.x, y: f.y - 34, vx: Math.cos(a) * sp, vy: Math.sin(a) * sp, life: 1.4, dmg: d, el, team: 1, r, src: f, kind: kind || (el === 'water' ? 'water' : el === 'bolt' ? 'bolt' : 'orb'), hit: new Set() });
   const call = (f, n, el) => { FX.text(f.x, f.y - 120, T(n), elc(el), 22); FX.glow(f.x, f.y - 40, elc(el), 60, 0.4); f.sign = { k: 'tora', t: 0 }; };
-  const move = (f, M, h) => { const [n, k, el, t, d, cd] = M, a = Math.atan2(h.y - f.y, h.x - f.x), K = [0.45, 0.6, 0.75][Save.set.diff || 0]; call(f, n, el); f.bgT = cd * (0.8 + Math.random() * 0.5);
+  const move = (f, M, h) => { const [n, k, el, t, d, cd] = M, a = Math.atan2(h.y - f.y, h.x - f.x), K = [0.38, 0.5, 0.65][Save.set.diff || 0]; call(f, n, el); f.bgT = cd * (0.8 + Math.random() * 0.5);
     if (t === 'proj') Game.later(0.35, () => shoot(f, Math.atan2(h.y - f.y, h.x - f.x), 600, d * K, el, 20));
     else if (t === 'fan') Game.later(0.3, () => { for (let i = -2; i <= 2; i++) shoot(f, a + i * 0.16, 560, d * K, el, 12); });
     else if (t === 'beam') Game.later(0.45, () => { const b = Math.atan2(h.y - f.y, h.x - f.x); for (let i = 0; i < 6; i++) Game.later(i * 0.04, () => shoot(f, b, 900, d * K / 3, el, 16, 'bolt')); });
@@ -54,7 +67,7 @@
   for (const k of ['say', 'choose']) { const o = Talk[k].bind(Talk); Talk[k] = function () { if (B.on && B.fight) return; return o.apply(this, arguments); }; }
   const vt = Voie.target.bind(Voie); Voie.target = function () { return B.on ? null : vt.apply(this, arguments); };
   const ob0 = Voie.obj.bind(Voie); Voie.obj = function () { return B.on ? ['Battleground', T(B.me ? B.me.n : '') + ' vs ' + T(B.his ? B.his.n : '')] : ob0.apply(this, arguments); };
-  const hu0 = hurt; hurt = function (t, d, src, o) { if (B.on && src && src === Game.hero && B.me && B.me.pw) d *= B.me.pw; return hu0.call(this, t, d, src, o); };
+  const hu0 = hurt; hurt = function (t, d, src, o) { if (B.on && src && src === Game.hero && B.me && B.me.pw) d *= B.me.pw; if (B.on && src === Game.hero && B.cast10 && CANON[B.cast10] && Game.t - B.castT < 1.5) d *= CANON[B.cast10]; return hu0.call(this, t, d, src, o); };
   const hd = Game.heroDown.bind(Game); Game.heroDown = function () { if (B.on) { end(false); return; } return hd(); };
   const sl = Game.skillLock.bind(Game); Game.skillLock = function (id) { return B.on ? null : sl(id); };
   const ul = Game.ultLock.bind(Game); Game.ultLock = function () { return B.on ? (this.ultId ? null : 'Aucun ultime') : ul(); };

diff --git a/src/8z_lang10.js b/src/8z_lang10.js
@@ -943,7 +943,9 @@
 "Bansho Ten’in": "Banshō Ten'in",
 "Tiges en éventail": "Rod Fan",
 "Palier {} ({})": "Stage {} ({})",
-"Palier max": "Max stage"
+"Palier max": "Max stage",
+"Tiges de chakra": "Chakra Rods",
+"Bras-lame du Kāma": "Kāma Blade Arm"
 }
 };
   const L = window.LANG10 = { DATA, miss: new Set(), get lang() { return (Save.set && Save.set.lang) || 'en'; }, set lang(v) { Save.set.lang = v; try { Save.saveSet && Save.saveSet(); } catch (e) {} },

diff --git a/src/10_core.js b/src/10_core.js
@@ -1,6 +1,6 @@
 'use strict';
 /* ============ Noyau : réglages, sauvegarde, entrées, audio ============ */
-const VERSION = '0.10.35';
+const VERSION = '0.10.36';
 const K10 = Math.sqrt(10); // v0.9.7 : échelle des cartes extérieures (surface ×10)
 const $ = (s) => document.querySelector(s);
 const TAU = Math.PI * 2, clamp = (v, a, b) => (v < a ? a : v > b ? b : v), lerp = (a, b, t) => a + (b - a) * t;

diff --git a/PATCH_NOTES.md b/PATCH_NOTES.md
@@ -1,3 +1,10 @@
+## v0.10.36 — Battleground: canon kits for Pain and Kawaki, red Susanoo for Itachi
+- Itachi's Susanoo is now red (canon).
+- Pain gains Banshō Ten'in (pull + stun) and Chakra Rods; Shinra Tensei repels projectiles and grants brief invulnerability.
+- Kawaki: Kāma Blade Arm (faster, wider), Sukunahikona and Kāma absorption (absorbs projectiles, heals, restores chakra).
+- Hidden stat boosts replaced by canon technique strength; small HP adjustments kept.
+- Release script now refuses to ship with missing translations.
+
 ## v0.10.35 — v0.10.35: Battleground mode - 4 canon duels, both sides playable
 Battleground (écran titre) : duels canon pré-faits — Frères Uchiha (Sasuke Rinnegan vs Itachi Edo Tensei), Vallée de la Fin (Naruto Kurama vs Sasuke), Invasion de Pain (Naruto Ermite vs Pain Tendō), Réceptacles du Kāma (Boruto vs Kawaki). Choix du camp, kits canon (techniques, mode, ultime), l'adversaire rejoue ses coups canon (annoncés). Victoire/Défaite, Revanche, Autre duel. Aucune sauvegarde.
 
